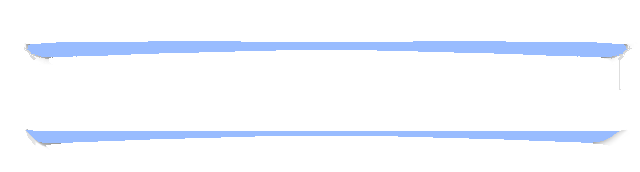
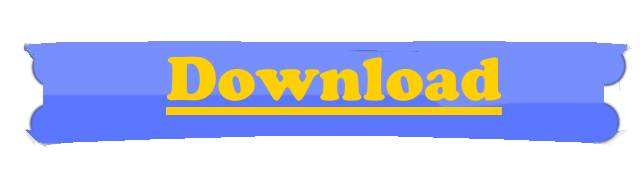
Add files via upload

diff --git a/My favGame ever FanSite/Download.html b/My favGame ever FanSite/Download.html
@@ -1,0 +1,46 @@
+<!DOCTYPE html>
+<html lang="en">
+<head>
+ <meta charset="UTF-8">
+ <title>Fan-Registration</title>
+ <link 
+rel="stylesheet"
+href="css3.css"
+type="text/css">
+</link>
+
+</head>
+
+<body>
+
+<style> 
+ body {background: black url(images/444.jpg) no-repeat;
+ background-size: 100%;}
+
+
+
+
+ 
+
+</style>
+
+	<link rel="stylesheet" href="https://maxcdn.bootstrapcdn.com/bootstrap/3.3.7/css/bootstrap.min.css" integrity="sha384-BVYiiSIFeK1dGmJRAkycuHAHRg32OmUcww7on3RYdg4Va+PmSTsz/K68vbdEjh4u" crossorigin="anonymous">
+<!-- Optional theme -->
+<link rel="stylesheet" href="https://maxcdn.bootstrapcdn.com/bootstrap/3.3.7/css/bootstrap-theme.min.css" integrity="sha384-rHyoN1iRsVXV4nD0JutlnGaslCJuC7uwjduW9SVrLvRYooPp2bWYgmgJQIXwl/Sp" crossorigin="anonymous">
+<!-- Latest compiled and minified JavaScript -->
+<script src="https://maxcdn.bootstrapcdn.com/bootstrap/3.3.7/js/bootstrap.min.js" integrity="sha384-Tc5IQib027qvyjSMfHjOMaLkfuWVxZxUPnCJA7l2mCWNIpG9mGCD8wGNIcPD7Txa" crossorigin="anonymous"></script>
+<div class="block">
+<ul>
+
+<li><a href="#"><img src="images/tet2.png"></a></li>
+
+</ul>
+</div>
+
+
+
+
+
+</body>
+</html>
+

diff --git a/My favGame ever FanSite/Champions.html b/My favGame ever FanSite/Champions.html
@@ -36,7 +36,7 @@ h2 { text-align: center; }
 p { font-size: 130%;
      text-indent: 5%; }
 
-
+     li { border-bottom: 2px solid #007178; }
 
 
 
@@ -75,7 +75,7 @@ p { font-size: 130%;
    </a>
   <ul class='navbar-nav nav'>
    <li><a class="navbar-brand" href="Paladins.html"><strong><img src="images/back.png" class="back">Назад</strong></a></li>
-   <li><a class="navbar-brand" href="#"><strong>Скачать</strong></a></li>
+   <li><a class="navbar-brand" href="Download.html"><strong>Скачать</strong></a></li>
    <li><a class="navbar-brand" href="Pravila.html"><strong>Правила</strong></a></li>
    <li><a class="navbar-brand" href="Champions.html"><strong>Чемпионы</strong></a></li>
     <li><a class="navbar-brand" href="#"><strong>О нас</strong></a></li>

diff --git a/My favGame ever FanSite/Glavnaya.html b/My favGame ever FanSite/Glavnaya.html
@@ -36,6 +36,8 @@ h2 { text-align: center; }
 p { font-size: 130%;
      text-indent: 5%; }
 
+     li { border-bottom: 2px solid #007178; }
+
 
 
 
@@ -75,7 +77,7 @@ p { font-size: 130%;
    </a>
   <ul class='navbar-nav nav'>
    <li><a class="navbar-brand" href="Paladins.html"><strong><img src="images/back.png" class="back">Назад</strong></a></li>
-   <li><a class="navbar-brand" href="#"><strong>Скачать</strong></a></li>
+   <li><a class="navbar-brand" href="Download.html"><strong>Скачать</strong></a></li>
    <li><a class="navbar-brand" href="Pravila.html"><strong>Правила</strong></a></li>
    <li><a class="navbar-brand" href="Champions.html"><strong>Чемпионы</strong></a></li>
     <li><a class="navbar-brand" href="#"><strong>О нас</strong></a></li>

diff --git a/My favGame ever FanSite/Paladins.html b/My favGame ever FanSite/Paladins.html
@@ -68,7 +68,7 @@ type="text/css">
 </div>
 
 <div class="button-wrapper brand">
-  <a href="#" class="arrow-btn"><strong>Скачать</strong><span></span></a>
+  <a href="Download.html" class="arrow-btn"><strong>Скачать</strong><span></span></a>
 </div>
 
 <div class="button-wrapper brand">

diff --git a/My favGame ever FanSite/css3.css b/My favGame ever FanSite/css3.css
@@ -1,0 +1,14 @@
+ul li a {
+margin: 0;
+padding: 4px 8px;
+color:#Fa39a9;
+text-decoration:none;
+background: url(images/tet2.png);
+}
+
+ul li a:hover 
+{
+color:#Fa39a9;
+padding-bottom: 5px;
+background: url(images/tet.png);
+}

diff --git a/My favGame ever FanSite/css2.css b/My favGame ever FanSite/css2.css
@@ -28,3 +28,6 @@ font-size: 25%; }
 
 .backk { background-color: #060A09 }
 
+ul li a:hover {
+background: #0FA8FA; }
+
